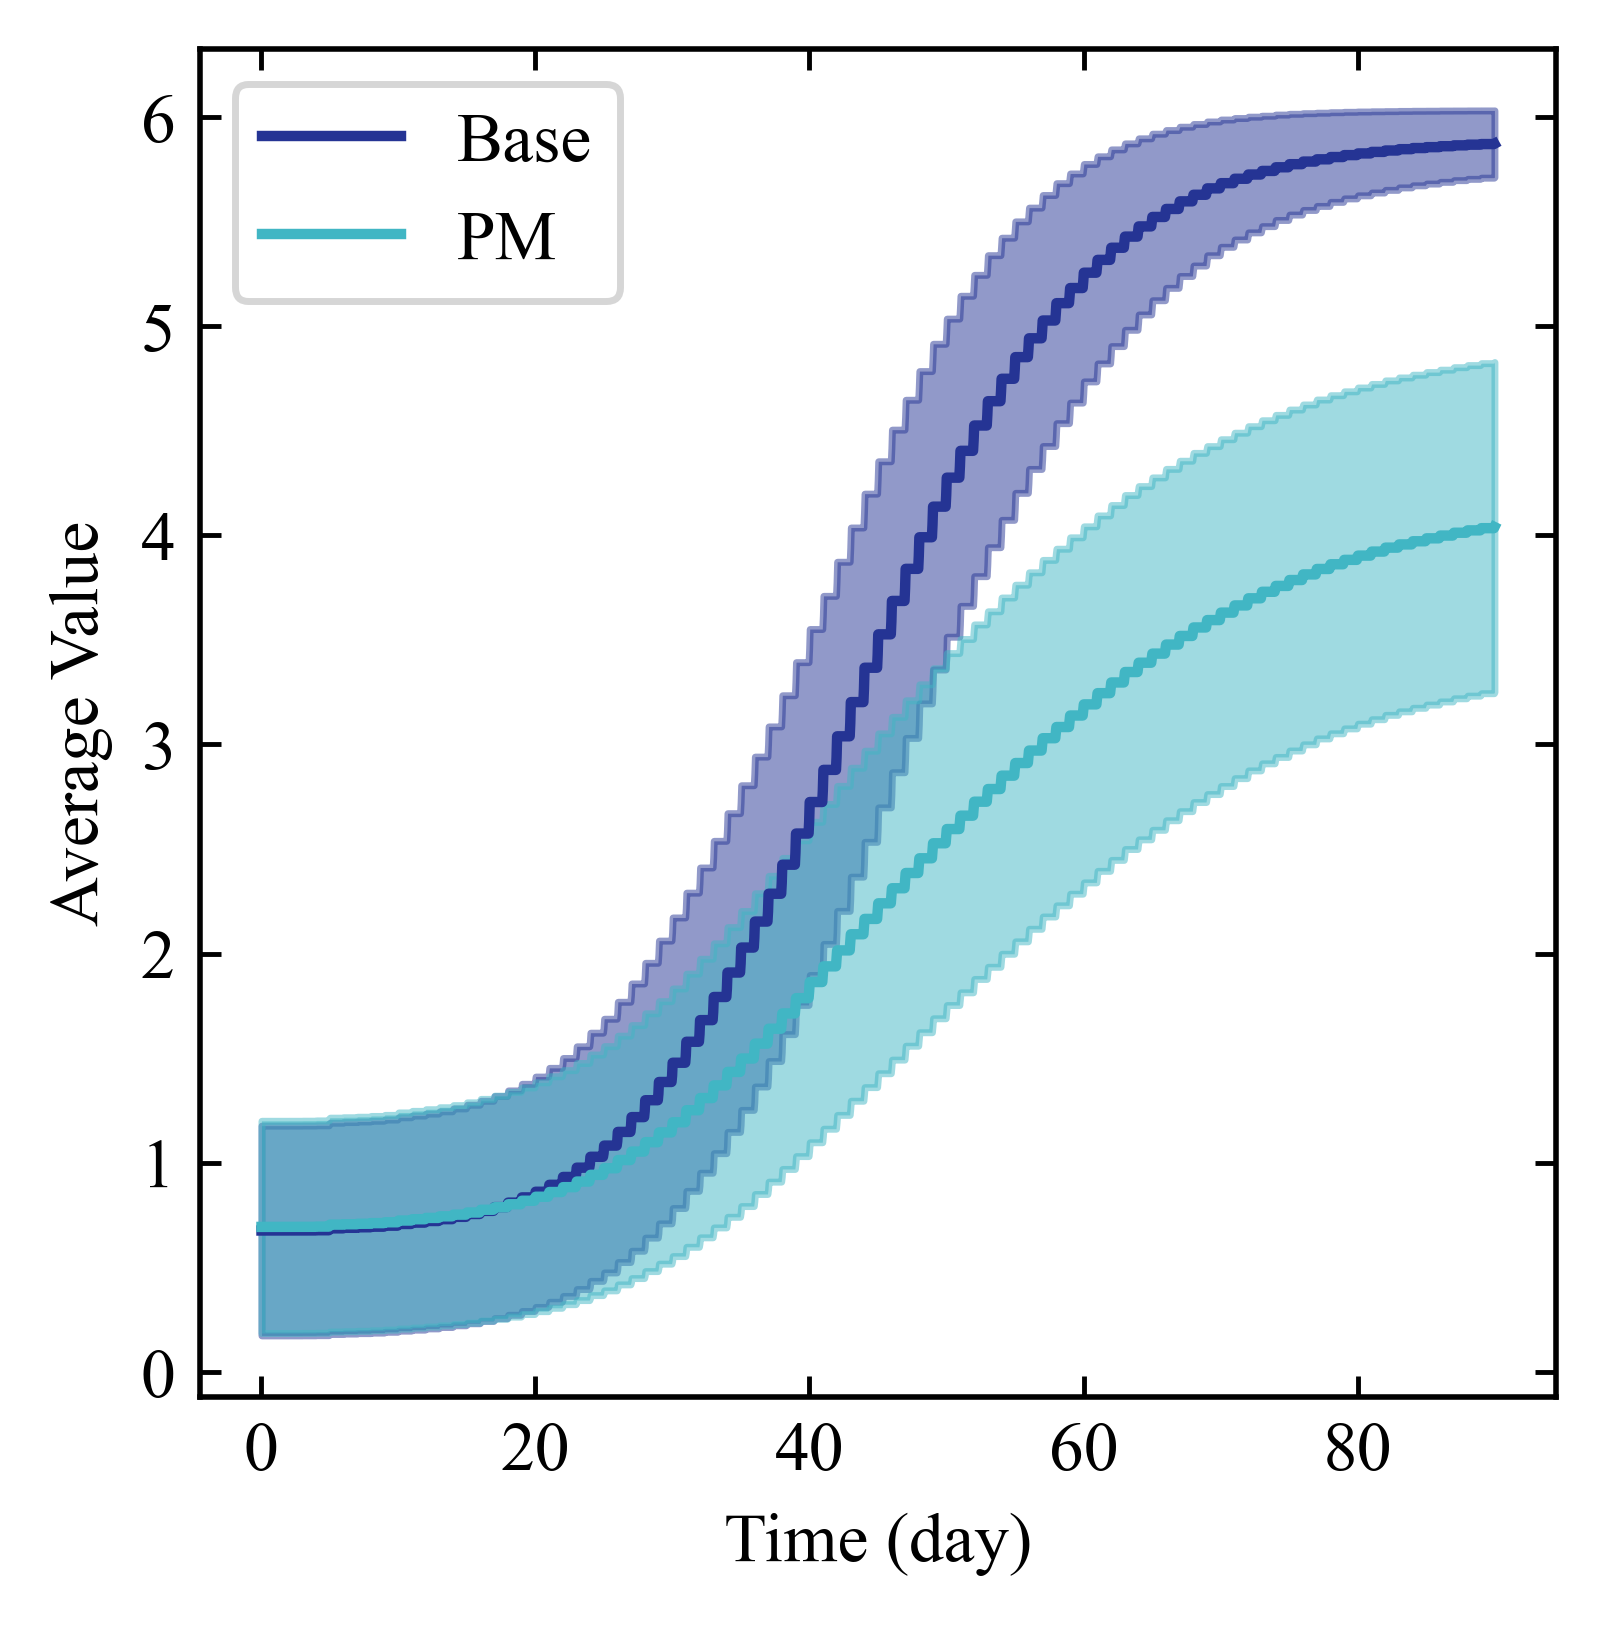
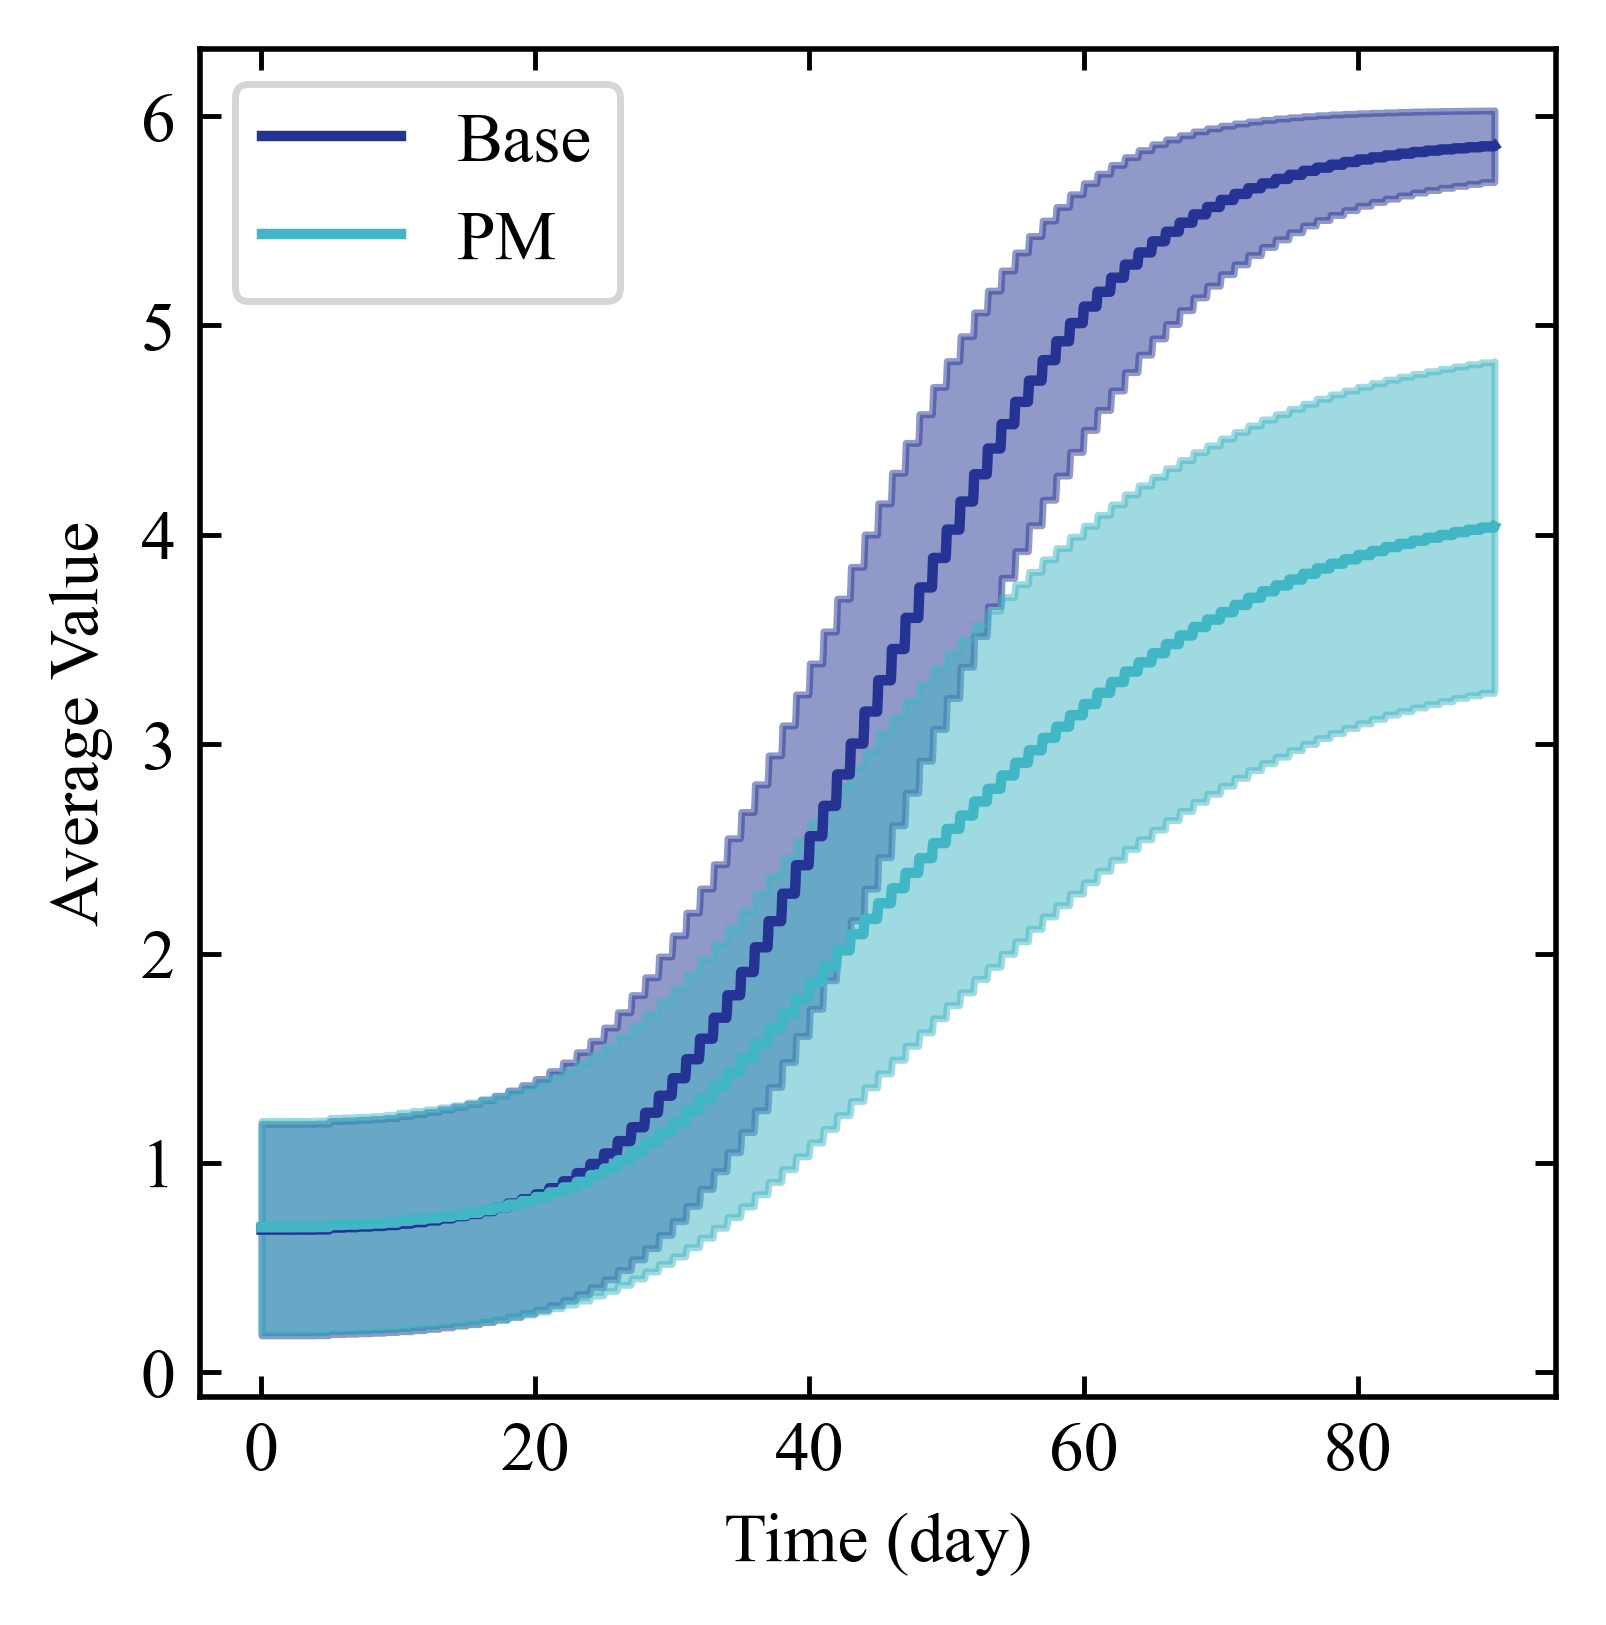
new figures

diff --git a/graphics.py b/graphics.py
@@ -952,7 +952,7 @@ make_distance_plot(dist_values, no_pm_age_values, pm_age_values,
 ''' Make agent state variable plots '''
 all_pm_sv = read_data('Output Files/30_all_pm/2023-05-24_11-32_0_results/',
                       ['cov_pers', 'cov_ff', 'media'])
-no_pm_sv = read_data('Output Files/30_no_pm/2023-05-23_21-41_0_results/',
+no_pm_sv = read_data('Output Files/30_no_pm/2023-05-26_08-33_0_results/',
                      ['cov_pers', 'cov_ff', 'media'])
 
 agent = '124'
